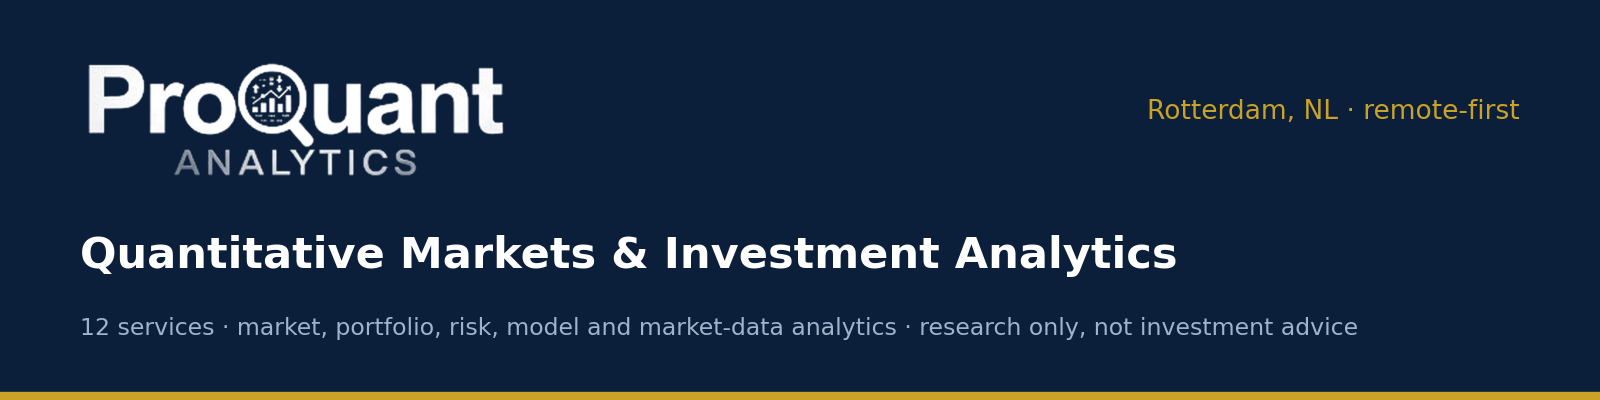
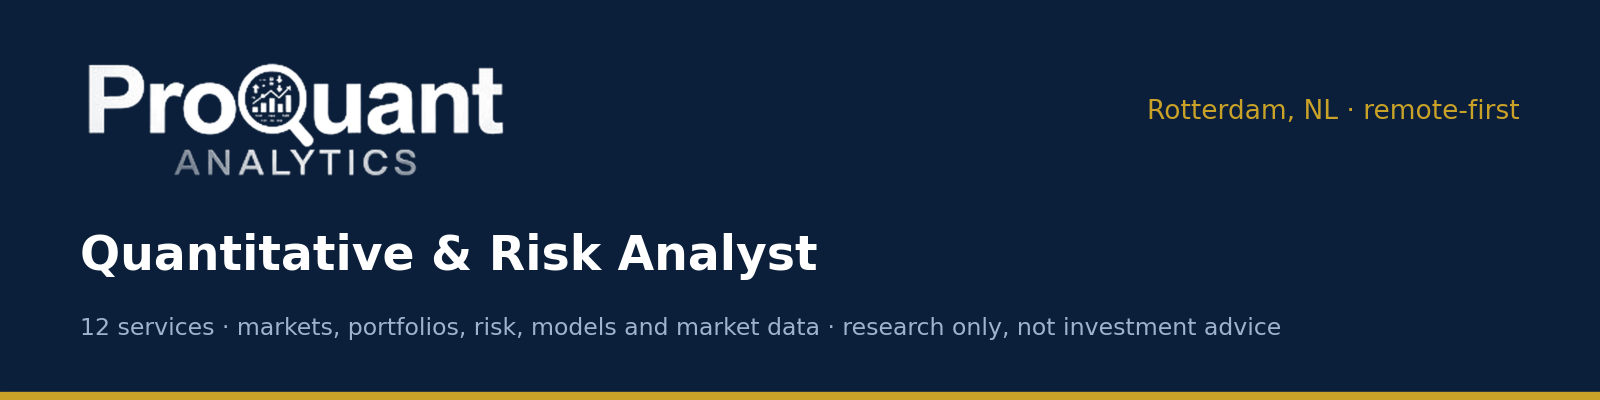
Profile: title Quantitative & Risk Analyst

Changed region(s): [[0.0625, 0.57, 0.75, 0.69], [0.1875, 0.78, 0.8438, 0.84]]

diff --git a/README.md b/README.md
@@ -2,7 +2,7 @@
 
 # ProQuant Analytics
 
-**Quantitative markets and investment analytics** · Rotterdam, Netherlands · remote-first
+**Quantitative & Risk Analyst** · ProQuant Analytics · Rotterdam, Netherlands · remote-first
 
 Evidence-led research and measurement for investment teams, asset managers, advisers and fintechs: market and company research, strategy testing, portfolio construction, risk, execution costs, performance reporting, model validation, derivatives, and market-data workflows.
 
